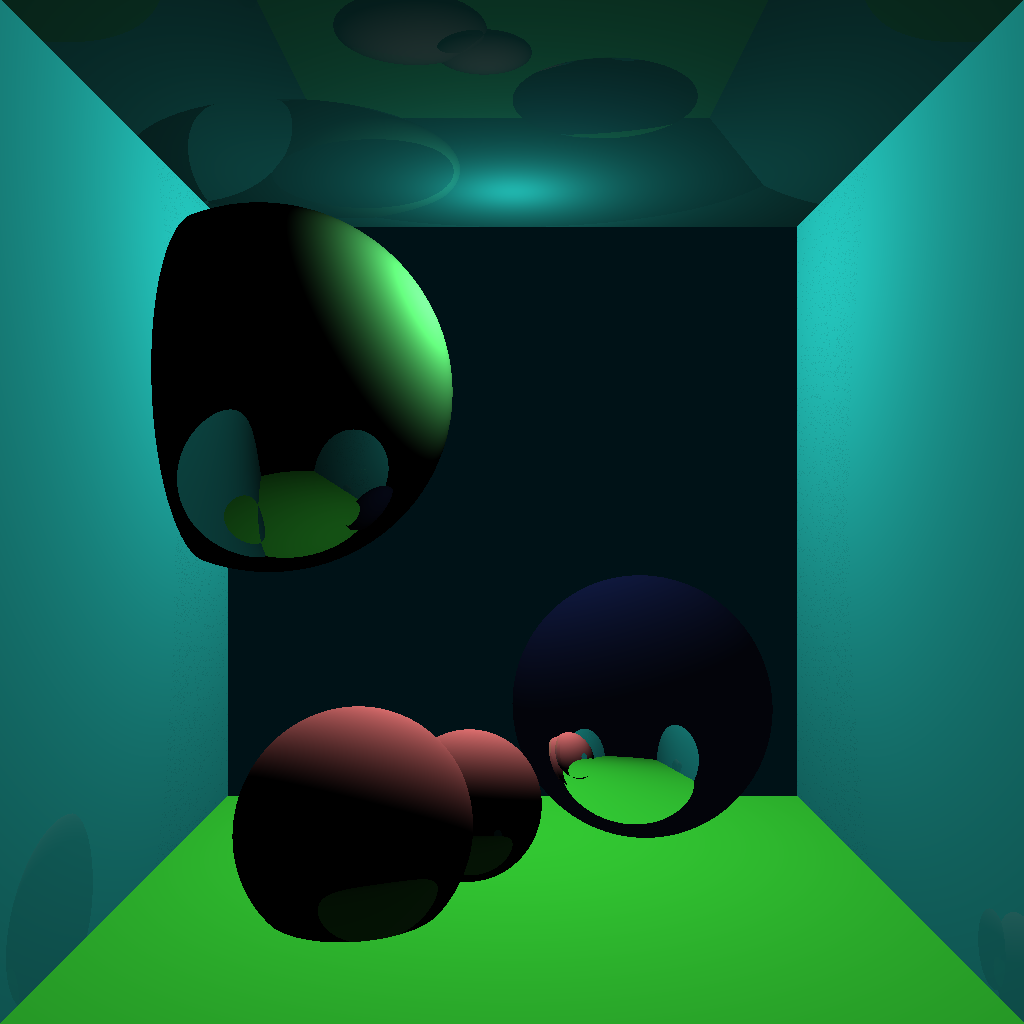
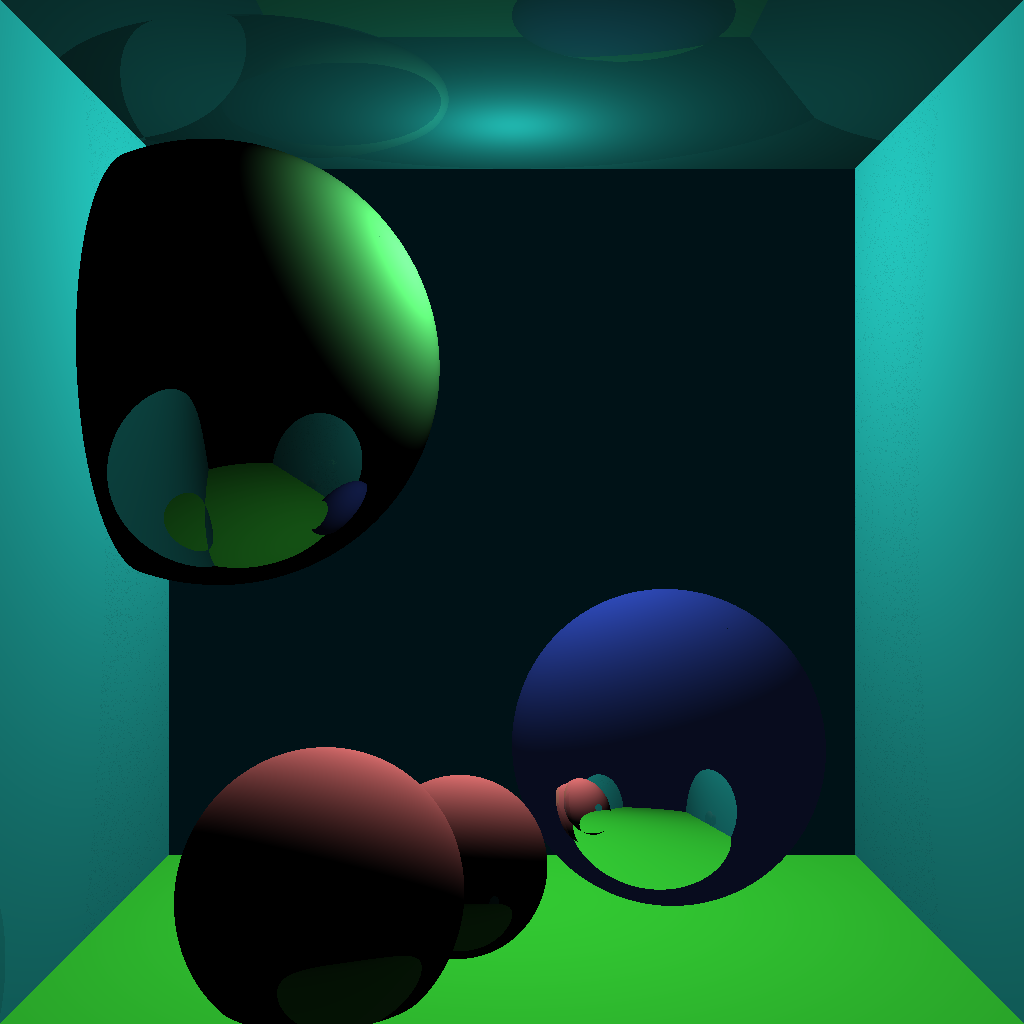
Add global options to parser

diff --git a/raytracer/src/lib.rs b/raytracer/src/lib.rs
@@ -53,7 +53,7 @@ pub struct Raytracer {
     world: Vec<Object>,
     lights: Vec<Light>,
     background_color: Color,
-    recurse_depth: isize,
+    recurse_depth: i64,
 }
 
 impl Raytracer {
@@ -62,7 +62,7 @@ impl Raytracer {
         world: Vec<Object>,
         lights: Vec<Light>,
         background_color: Color,
-        recurse_depth: isize,
+        recurse_depth: i64,
     ) -> Self {
         Self {
             camera,
@@ -81,8 +81,8 @@ impl Raytracer {
         self.camera.set_height(height);
     }
 
-    pub fn set_recurse_depth(&mut self, depth: usize) {
-        self.recurse_depth = depth as isize;
+    pub fn set_recurse_depth(&mut self, depth: u32) {
+        self.recurse_depth = depth as i64;
     }
 }
 
@@ -141,7 +141,7 @@ impl Raytracer {
         object: &Object,
         intersection_pos: Vec3,
         intersection_normal: Vec3,
-        depth: isize,
+        depth: i64,
     ) -> Color {
         let mut color = BLACK_COLOR;
 
@@ -163,7 +163,7 @@ impl Raytracer {
         object: &Object,
         intersection_pos: Vec3,
         intersection_normal: Vec3,
-        depth: isize,
+        depth: i64,
     ) -> Color {
         let color = object.material.color.scale(self.lambertian(
             object,
@@ -177,7 +177,7 @@ impl Raytracer {
     }
 
     /// Raycast from point with recursion level equal to `depth`.
-    fn trace(&self, ray: Ray, depth: isize) -> Option<Color> {
+    fn trace(&self, ray: Ray, depth: i64) -> Option<Color> {
         if depth <= 0 {
             return None;
         }

diff --git a/scene_parser/src/scene_object.rs b/scene_parser/src/scene_object.rs
@@ -8,6 +8,7 @@ pub enum SceneObject {
     Camera(Camera),
     Object(Primitive, Material),
     Light(Light),
+    GlobalOptions(GlobalOptions),
 }
 
 impl SceneObject {
@@ -87,6 +88,17 @@ impl SceneObject {
         Ok(Light { pos, intensity })
     }
 
+    fn build_global(ident: Ident, options: &mut Options) -> Result<GlobalOptions, SceneParseError> {
+        let mut go = GlobalOptions::default();
+        let start = ident.start;
+        if let Ok((_, lit)) = options.get("recurse_depth", start) {
+            go.recurse_depth = lit.get_u32()?;
+        }
+        options.check_empty()?;
+
+        Ok(go)
+    }
+
     pub fn new(
         ident: Ident,
         options: Vec<(Ident, SpannedLit)>,
@@ -94,6 +106,9 @@ impl SceneObject {
         let options = &mut Options::build(options)?;
 
         match ident.name.to_lowercase().as_str() {
+            "global" => Ok(SceneObject::GlobalOptions(SceneObject::build_global(
+                ident, options,
+            )?)),
             "camera" => Ok(SceneObject::Camera(SceneObject::build_camera(
                 ident, options,
             )?)),
@@ -111,5 +126,16 @@ impl SceneObject {
                 Ok(SceneObject::Object(prim, material))
             }
         }
+    }
+}
+
+#[derive(Debug)]
+pub struct GlobalOptions {
+    pub recurse_depth: u32,
+}
+
+impl Default for GlobalOptions {
+    fn default() -> Self {
+        Self { recurse_depth: 5 }
     }
 }

diff --git a/scene_parser/src/scene_builder.rs b/scene_parser/src/scene_builder.rs
@@ -1,4 +1,4 @@
-use crate::scene_object::SceneObject;
+use crate::scene_object::{GlobalOptions, SceneObject};
 use crate::SceneParseError;
 
 use raytracer::{Color, Raytracer};
@@ -13,10 +13,14 @@ impl SceneBuilder {
         let mut objects = vec![];
         let mut lights = vec![];
         let mut errors = vec![];
+        let mut options = GlobalOptions::default();
 
         for object in scene_objects {
             match object {
                 Ok(object) => match object {
+                    SceneObject::GlobalOptions(o) => {
+                        options = o;
+                    }
                     SceneObject::Camera(c) => cameras.push(c),
                     SceneObject::Object(p, m) => objects.push(raytracer::Object {
                         primitive: p,
@@ -54,7 +58,7 @@ impl SceneBuilder {
                 lights,
                 // TODO: Global options
                 Color::new(0, 0, 0),
-                2,
+                options.recurse_depth.into(),
             ))
         } else {
             unreachable!()

diff --git a/src/main.rs b/src/main.rs
@@ -22,7 +22,7 @@ struct Args {
     #[arg(long)]
     height: Option<u32>,
     #[arg(short, long)]
-    recurse_depth: Option<usize>,
+    recurse_depth: Option<u32>,
 }
 
 fn main() {
